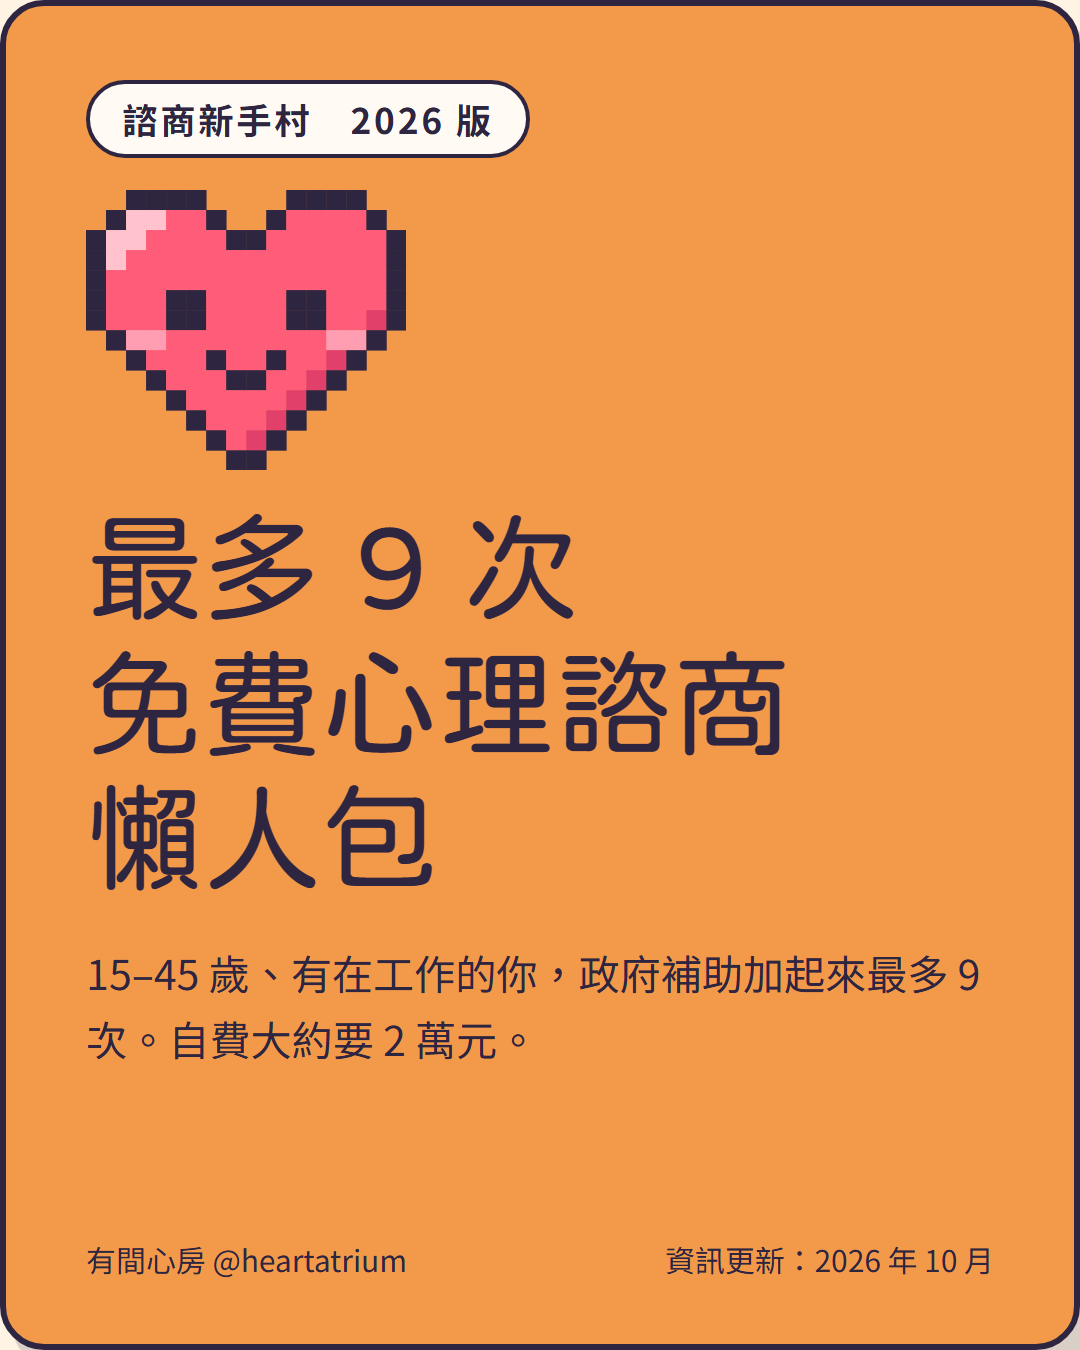
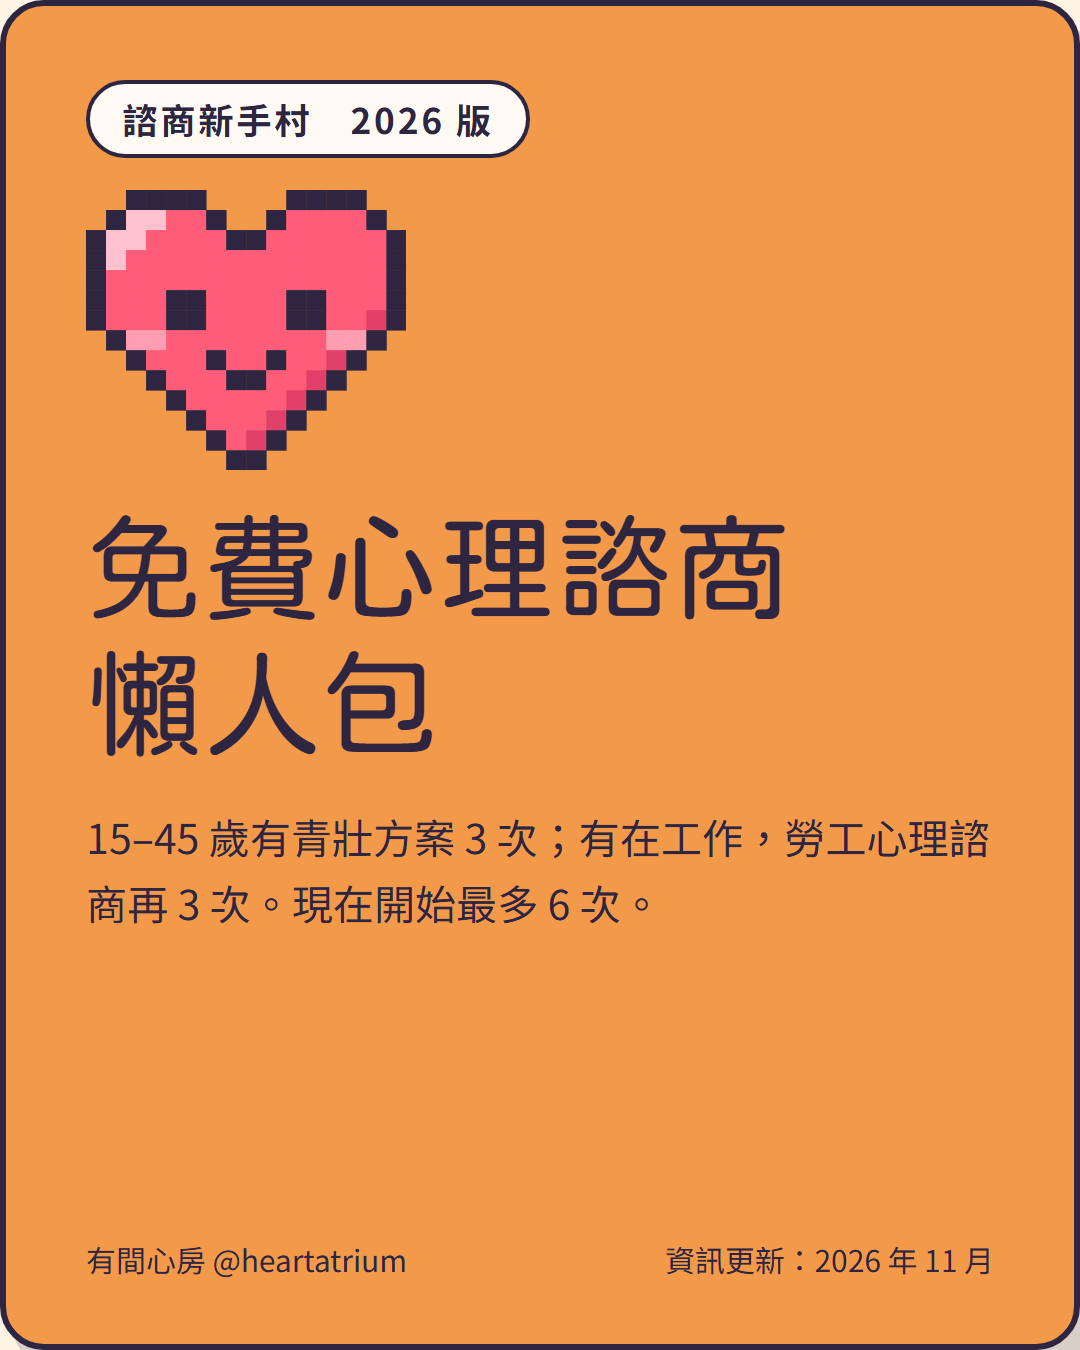
11月更新：勞工方案第二階段暫停、到 12/24，現在最多 6 次

Changed region(s): [[0.0611, 0.3733, 0.9167, 0.8089], [0.7944, 0.5911, 0.9167, 0.6533], [0.7333, 0.5911, 0.7944, 0.6533]]

diff --git a/index.html b/index.html
@@ -3,9 +3,9 @@
 <head>
 <meta charset="utf-8">
 <meta name="viewport" content="width=device-width, initial-scale=1, viewport-fit=cover">
-<meta name="description" content="2026 年青壯方案＋勞工心理諮商：最多 9 次免費心理諮商的資格、次數、預約步驟和官方連結。有間心房・諮商新手村。">
+<meta name="description" content="2026 年青壯方案＋勞工心理諮商：免費心理諮商的資格、次數、期限、預約步驟和官方連結（2026 年 11 月更新）。有間心房・諮商新手村。">
 <meta property="og:title" content="免費心理諮商懶人包（2026 版）｜有間心房">
-<meta property="og:description" content="15–45 歲、有在工作，最多 9 次免費心理諮商。資格、預約步驟、官方連結一次看。">
+<meta property="og:description" content="15–45 歲有 3 次免費心理諮商，有在工作再 3 次。資格、期限、預約步驟、官方連結一次看。">
 <meta property="og:image" content="card_1.png">
 <title>免費心理諮商懶人包｜有間心房</title>
 <meta name="claude:viewport-fit-sides" content="cover">
@@ -60,9 +60,9 @@ a:focus-visible { outline: 3px solid var(--sun); outline-offset: 2px; }
 <section class="card cover" id="c1"><div class="in">
   <span class="tag">諮商新手村　2026 版</span>
   <svg class="heart" viewBox="0 0 16 14" aria-hidden="true" id="heart"></svg>
-  <h1>最多 9 次<br>免費心理諮商<br>懶人包</h1>
-  <p>15–45 歲、有在工作的你，政府補助加起來最多 9 次。自費大約要 2 萬元。</p>
-  <div class="foot"><span>有間心房 @heartatrium</span><span>資訊更新：2026 年 10 月</span></div>
+  <h1>免費心理諮商<br>懶人包</h1>
+  <p>15–45 歲有青壯方案 3 次；有在工作，勞工心理諮商再 3 次。現在開始最多 6 次。</p>
+  <div class="foot"><span>有間心房 @heartatrium</span><span>資訊更新：2026 年 11 月</span></div>
 </div></section>
 
 <section class="card" id="c2"><div class="in">
@@ -70,11 +70,11 @@ a:focus-visible { outline: 3px solid var(--sun); outline-offset: 2px; }
   <h2>你有幾把鑰匙？</h2>
   <div>
     <div class="row"><b>15–45 歲</b><span>衛福部 青壯世代心理健康支持方案</span><em class="num">3 次</em></div>
-    <div class="row"><b>有在工作</b><span>勞動部 勞工心理諮商（含自營作業者、有投保勞工職災保險）</span><em class="num">3＋3</em></div>
+    <div class="row"><b>有在工作</b><span>勞動部 勞工心理諮商（含自營作業者、有投保勞工職災保險）</span><em class="num">3 次</em></div>
     <div class="row"><b>現役軍人、國軍文職</b><span>國防部 國軍心理健康照護方案</span><em class="num">≤ 6 次</em></div>
     <div class="row"><b>在學學生</b><span>學校輔導室、學生諮商中心</span><em class="num">依學校</em></div>
   </div>
-  <p class="small">15–45 歲又有在工作：青壯 3 次＋勞工 3 次，經評估還可再 3 次，最多 9 次。</p>
+  <p class="small">15–45 歲又有在工作：青壯 3 次＋勞工 3 次，最多 6 次（勞工第二階段 11/15 起暫停受理）。</p>
   <div class="foot"><span>有間心房</span><span>2 / 8</span></div>
 </div></section>
 
@@ -98,12 +98,12 @@ a:focus-visible { outline: 3px solid var(--sun); outline-offset: 2px; }
   <ul>
     <li><b>誰能用：</b>勞工、自營作業者等工作者，或有投保勞工職業災害保險的人</li>
     <li><b>第一階段 3 次：</b>每次補助上限 1,600 元、至少 40 分鐘，機構不能另收差額</li>
-    <li><b>第二階段再 3 次：</b>第一階段結束後，過勞量表評為高風險，經轉介評估符合的人</li>
-    <li><b>時間：</b>每階段 3 個月內，每次間隔 7–30 天；到 2026/12/15，經費用完會提早結束</li>
+    <li><b>第二階段：</b>原本第一階段後經過勞評估可再 3 次，115/11/15 起暫停受理</li>
+    <li><b>時間：</b>每次間隔 7–30 天；到 2026/12/24，經費用完可能提早停收，沒用完不保留</li>
     <li><b>帶：</b>第一次要出示當月的投保證明</li>
   </ul>
-  <div class="box g"><p>查合作機構：職業災害預防及重建中心<br><a href="https://www.coapre.org.tw">www.coapre.org.tw</a></p></div>
-  <div class="foot"><span>依據：職災預防及重建中心 115 年度方案（115/1/26）</span><span>4 / 8</span></div>
+  <div class="box g"><p>查合作機構：職業災害預防及重建中心<br><a href="https://www.coapre.org.tw">www.coapre.org.tw</a>　免付費專線 0800-068-580</p></div>
+  <div class="foot"><span>依據：職災中心合作機構平台 115/10/21 調整公告</span><span>4 / 8</span></div>
 </div></section>
 
 <section class="card" id="c5"><div class="in">
